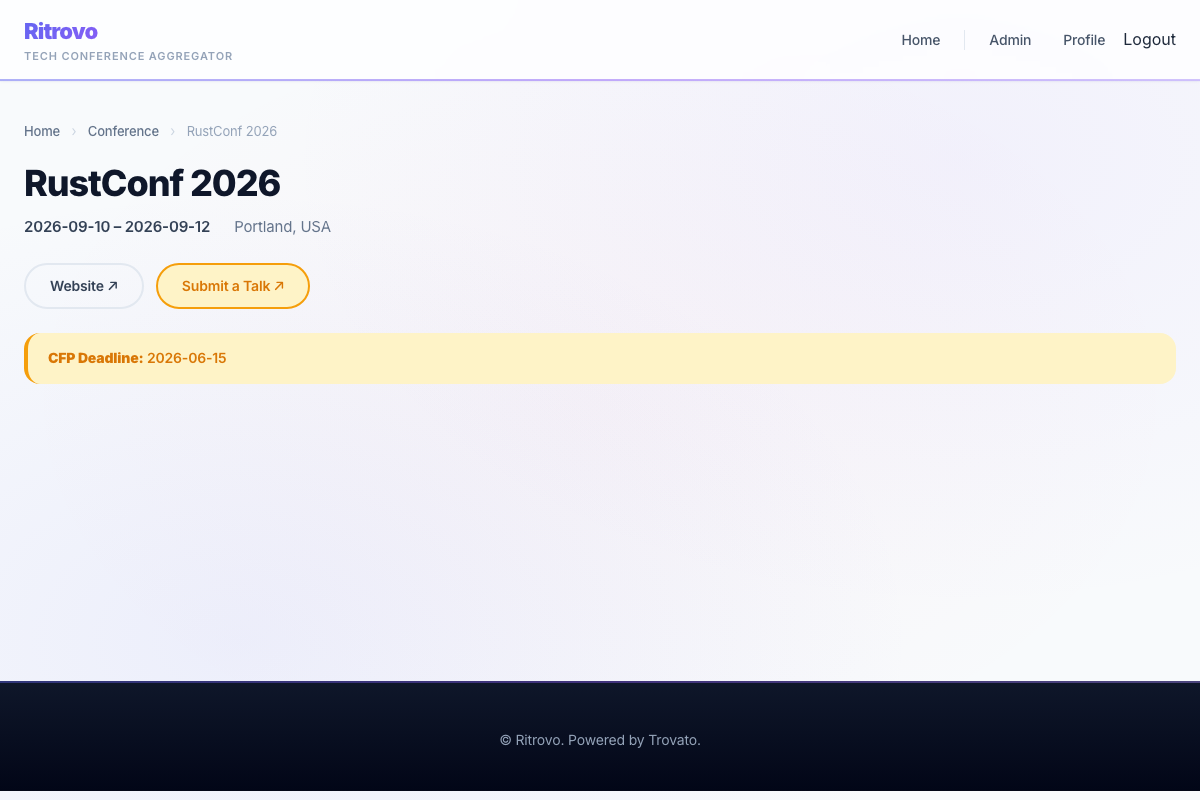
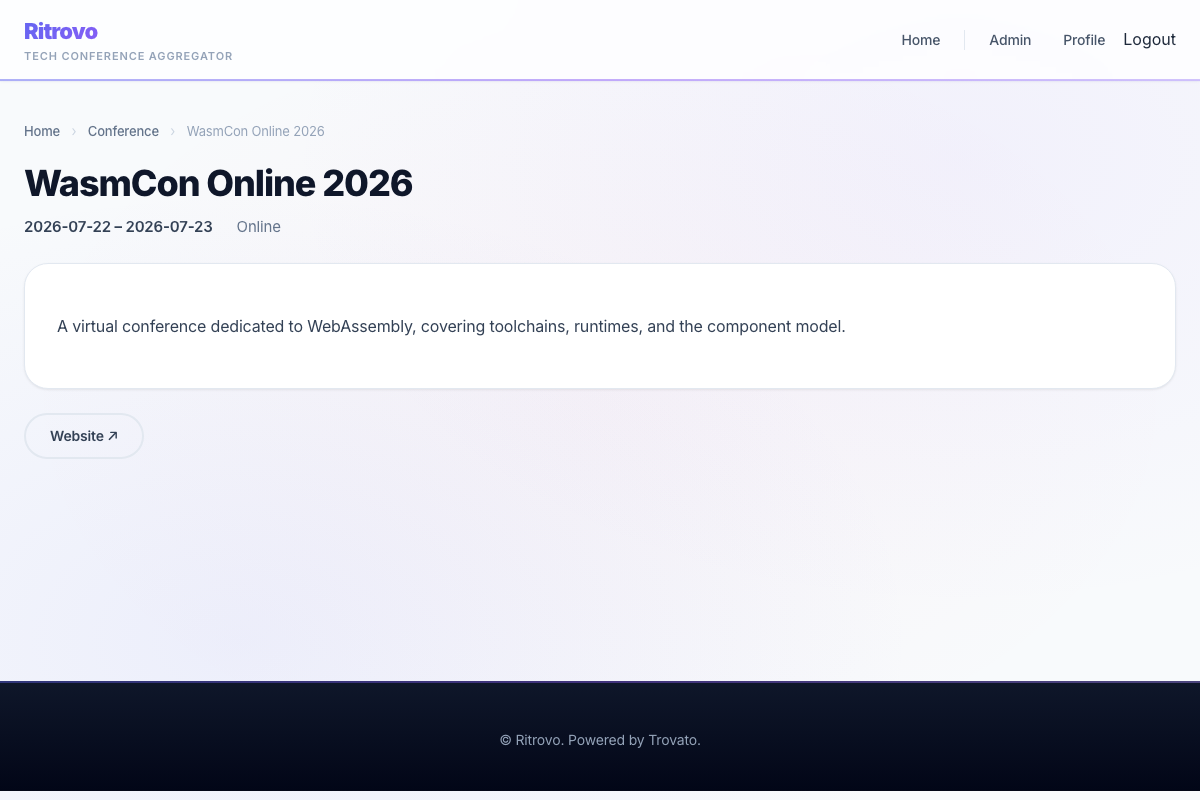
fix: add render_blocks Tera filter for Blocks fields in templates
Blocks fields (JSON arrays of Editor.js blocks) rendered as [object]
in templates that accessed them directly. Add a render_blocks filter
to convert block arrays to HTML via the existing render pipeline.

Update conf-card and item--conference templates to use the filter.
Recapture Part 1 screenshots with correct description rendering.
Document the filter in Tutorial Part 5.

diff --git a/templates/gather/includes/conf-card.html b/templates/gather/includes/conf-card.html
@@ -24,7 +24,7 @@
     </div>
 
     {% if row.fields.field_description %}
-    <p class="card__desc">{{ row.fields.field_description }}</p>
+    <div class="card__desc">{{ row.fields.field_description | render_blocks | safe }}</div> {# SAFE: render_blocks output is sanitized by ammonia #}
     {% endif %}
 
     <div class="card__actions">

diff --git a/templates/elements/item--conference.html b/templates/elements/item--conference.html
@@ -25,7 +25,7 @@
 
     {% if item.fields.field_description %}
     <div class="conf-detail__description">
-        {{ item.fields.field_description }}
+        {{ item.fields.field_description | render_blocks | safe }} {# SAFE: render_blocks output is sanitized by ammonia #}
     </div>
     {% endif %}
 

diff --git a/crates/kernel/src/theme/engine.rs b/crates/kernel/src/theme/engine.rs
@@ -105,6 +105,22 @@ impl ThemeEngine {
             },
         );
 
+        // Filter for rendering Blocks fields (JSON array of Editor.js blocks) to HTML.
+        // Usage: {{ item.fields.field_description | render_blocks | safe }}
+        tera.register_filter(
+            "render_blocks",
+            |value: &tera::Value, _args: &std::collections::HashMap<String, tera::Value>| {
+                if let Some(blocks) = value.as_array() {
+                    Ok(tera::Value::String(crate::content::render_blocks(blocks)))
+                } else if let Some(s) = value.as_str() {
+                    // Plain string fallback — return as-is (handles TextLong values)
+                    Ok(tera::Value::String(s.to_string()))
+                } else {
+                    Ok(tera::Value::String(String::new()))
+                }
+            },
+        );
+
         // Filter for translating interface strings via LocaleService.
         // Usage: {{ "Subscribe" | trans(lang=active_language) }}
         if let Some(locale_service) = locale {

diff --git a/docs/tutorial/part-05-forms-and-input.md b/docs/tutorial/part-05-forms-and-input.md
@@ -364,6 +364,16 @@ if is_blocks_field {
 
 Unknown block types are silently skipped -- they produce no output. This is intentional: if a plugin registers a custom block type and is later disabled, the blocks remain in storage but do not render until the plugin is re-enabled with a custom renderer.
 
+#### The `render_blocks` Tera Filter
+
+For templates that access Blocks fields directly (such as Gather query templates), the kernel provides a `render_blocks` Tera filter:
+
+```html
+{{ row.fields.field_description | render_blocks | safe }}
+```
+
+The filter accepts either a JSON array of blocks (producing rendered HTML via the same pipeline described above) or a plain string (returned as-is for backward compatibility with TextLong fields). The `| safe` is required because the output is pre-sanitized HTML from ammonia. The conference card template (`templates/gather/includes/conf-card.html`) uses this pattern.
+
 ### 3.2: Syntax Highlighting for Code Blocks
 
 Code blocks with a `language` field get server-side syntax highlighting via the `syntect` crate. The renderer:

diff --git a/docs/tutorial/recipes/recipe-part-05.md b/docs/tutorial/recipes/recipe-part-05.md
@@ -1,7 +1,7 @@
 # Recipe: Part 5 — Forms & User Input
 
 > **Synced with:** `docs/tutorial/part-05-forms-and-input.md`
-> **Sync hash:** 722c125c
+> **Sync hash:** 76bd5348
 > **Last verified:** 2026-03-16 (block editor plugin, ritrovo_access plugin)
 >
 > Run `docs/tutorial/recipes/sync-check.sh` before starting to verify this recipe matches the current tutorial.
